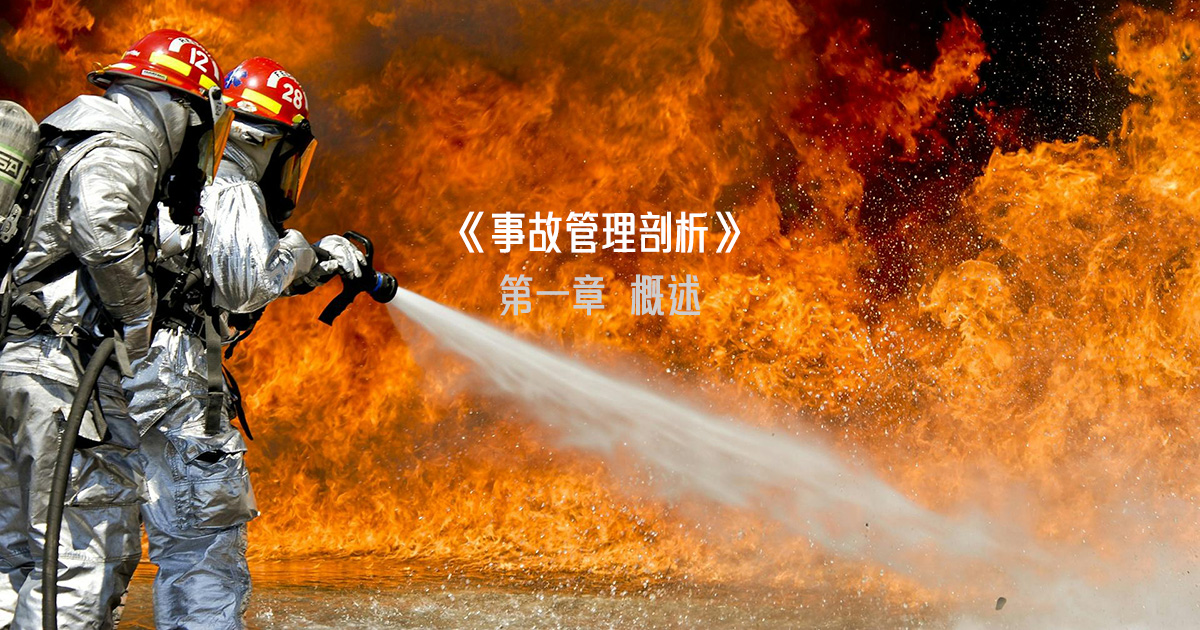
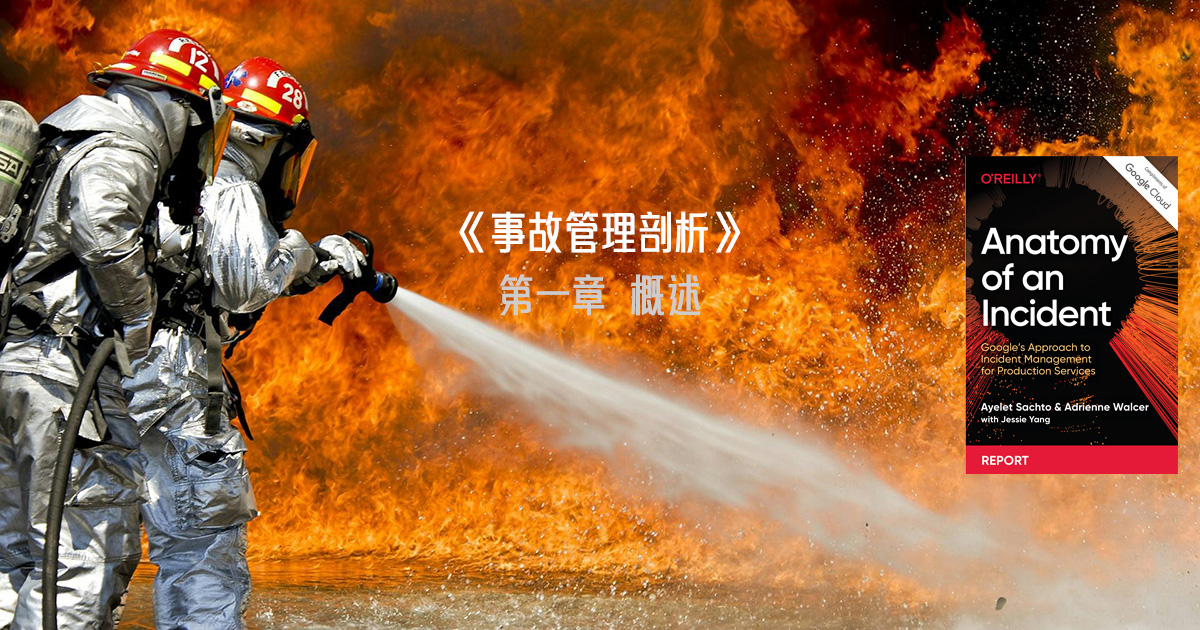
add chapter 2

Changed region(s): [[0.8017, 0.2413, 0.9867, 0.754]]

diff --git a/content/post/anatomy-of-an-incident-ch2/index.zh-cn.md b/content/post/anatomy-of-an-incident-ch2/index.zh-cn.md
@@ -1,42 +1,67 @@
 ---
-title: "Google 白皮书 《事故分析》第一章 概述"
+title: "Google SRE 白皮书 《事故分析》第二章 实战演习事故响应准备"
 date: 2024-06-25T22:46:48+08:00
-description:  Google 的生产服务事故管理方法
+description:  Google 的生产服务事故管理方法，Google 编写这份报告（白皮书）是为了分享&总结一份：技术事故响应实践的指南。
 slug: anatomy-of-an-incident-ch2
-image: 
-categories:
-    -  SRE
+image: pexels-pixabay-69934.png
 tags:
     - incident
+    - 事故管理
+    - Google
 comments: true
 toc: true
-draft: true
 
 ---
 
-事故分析
 
+我们已经讨论了管理事故的三个阶段和事故管理生命周期。现在，让我们讨论如何实战演习事故管理，以便在实际事故发生时，确保我们已经做好了准备。
 
+## 灾难角色扮演和事故响应演习
 
+为了增强恢复力，测试和演练事故响应准备是非常有价值的。我们建议在团队中进行灾难角色扮演来训练事故响应的全过程。在谷歌，我们通常称之为“厄运之轮 (Wheel of Misfortune)”。这是一种重现过去在生产环境中曾经遇到的真实事故场景的一种方法。
 
-[]()
+定期进行事故响应演习有许多现实的好处。在谷歌灾难恢复测试 (DiRT) 计划的早期，有些测试被认为风险过高而无法执行。然而，多年来，通过专注于这些由高风险测试所暴露出来的领域，许多暴露出来的风险已经得到了彻底解决，以至于这些测试现在是自动化执行的，并且被认为是无聊的测试。
 
-[]()
+如果想要实现这一点，效果即非立竿见影，过程也不会轻松愉快——这需要投入时间，需要多个团队付出巨大的协同努力；但我们已经能够极大的降低全球系统中的重大风险，以至于“风险只是另一个定期运行的自动化测试”。
 
+## 定期测试 (Regular Testing)
 
-[]()
+执行定期的测试具有很多显著的好处。多年来，谷歌一直在进行 DiRT 测试，以发现并修复生产系统中的问题。随着团队不断测试他们的服务，高风险测试的数量减少了。这实际上是个好迹象——团队已经使系统更加具有恢复力，以至于发现暴露系统的弱点，也变得越来越难。
 
-[]()
+测试失败——由于某种原因导致的测试失败——也变得更加罕见。即使发生，这些系统也往往能以预期的方式失败，并因此能得到迅速缓解。故障响应者现在更加自如地启动故障应急预案，能够在压力下保持头脑冷静，并且由于这些测试，撰写事后复盘报告的次数也减少了。谷歌多年的努力已经得到了回报——大家的心态已经从“灾难测试是对我个人的挑战”转变为“灾难测试是大家共同的任务”。
 
+## 细化的测试和自动化
 
+测试正在逐渐从解决纯粹的技术问题（例如“我们是否知道如何从完全损坏的数据库中恢复？”）转向更细化的“修复流程”的一系列挑战。
 
-![]()
+技术测试较易讨论和自动化：基本上就是编写一些代码来执行一系列命令，并检查预期的响应。而想要找到有问题的流程，则更加困难——例如“只有一个人有权批准这个，但他们并不回复电话/邮件”——尤其是对于那些那么不经常执行的陌生流程。
 
-![]()
+## 准备响应者 (Preparing Responders)
 
-![]()
+进行事故响应测试——即使只是理论测试——也可以帮助我们识别出有问题的流程，评估其概率和风险因素，并增强响应者的信心。即使测试未按计划进行，你也能更好地发现事故响应流程中的弱点。事故响应者也将会更好地做好在技术、心理和情感上的准备，以应对未来会发生的实际事故。
 
+情感上的准备并不可低估。如前所述，事故管理会给响应者带来巨大压力，导致疏忽大意、反应变慢和判断力模糊。压力还可能引起焦虑、疲劳、高血压和睡眠质量差等健康问题。
 
+进行事故响应测试不仅可以减少这些不良影响，更重要的是识别暴露出这些问题，以便采取纠正措施——如请求帮助、休息，甚至完全移交事故的处理。管理人员和领导也应该：时刻关注响应者的压力、疲劳和倦怠的迹象，并尽可能的提供必要的帮助。
 
+## 编写事故响应测试
 
-Feature picture ❤ 
+编写事故响应测试(Writing Incident Response Tests)的一个良好起点是：查看并回顾最近发生的事故。在谷歌，我们在每次事后复盘分析中都会问这些标准问题：
+
+- 出了什么问题？
+- 哪些方面做得好？
+- 我们在哪里是凭运气？
+
+首先查看出了什么问题，因为这是需要改进的地方。这些往往是容易解决的具体问题——例如，监控发现了问题但并没有通知任何人。一旦识别并修复了问题，就需要测试这个修复结果。这一点不能忽视：仅仅修复问题是不够的；修复可能不完整，或在其他地方又引起了回归。
+
+在测试正确性时，从小而简单的测试案例开始。随着对响应过程信心逐步增加，就可以开始研究更复杂的问题，包括那些不完全是技术性的（如人员流程方面）。
+
+当这些小范围测试进行了一段时间后，开始查看“我们在哪里是凭运气？”的那些方面。通常，这些问题更微妙，解决它们可能也不会容易。再次，从小处着手，将问题分解成更小、更易解决的部分。
+
+这些测试应保持缓慢的进行，但要保证稳定的节奏——既不想让团队淹没在测试工作中，也不想失去进度。举例来说，每四周进行一次一小时的测试，要比花费 10% 的运营预算在这些测试上更容易被接受。随着这些程序的发展和测试价值的显现，你会找到适合的测试频率和深度。
+
+> 来源： <https://sre.google> ；本白皮书一共有 7 章，后续章节将陆续发布。完整中文版白皮书即将发布，敬请期待。
+
+![cover](/img/anatomy-of-an-incident.png)
+
+❤ Photo by Pixabay: <https://www.pexels.com/photo/photo-of-a-2-fireman-killing-a-huge-fire-69934/>
